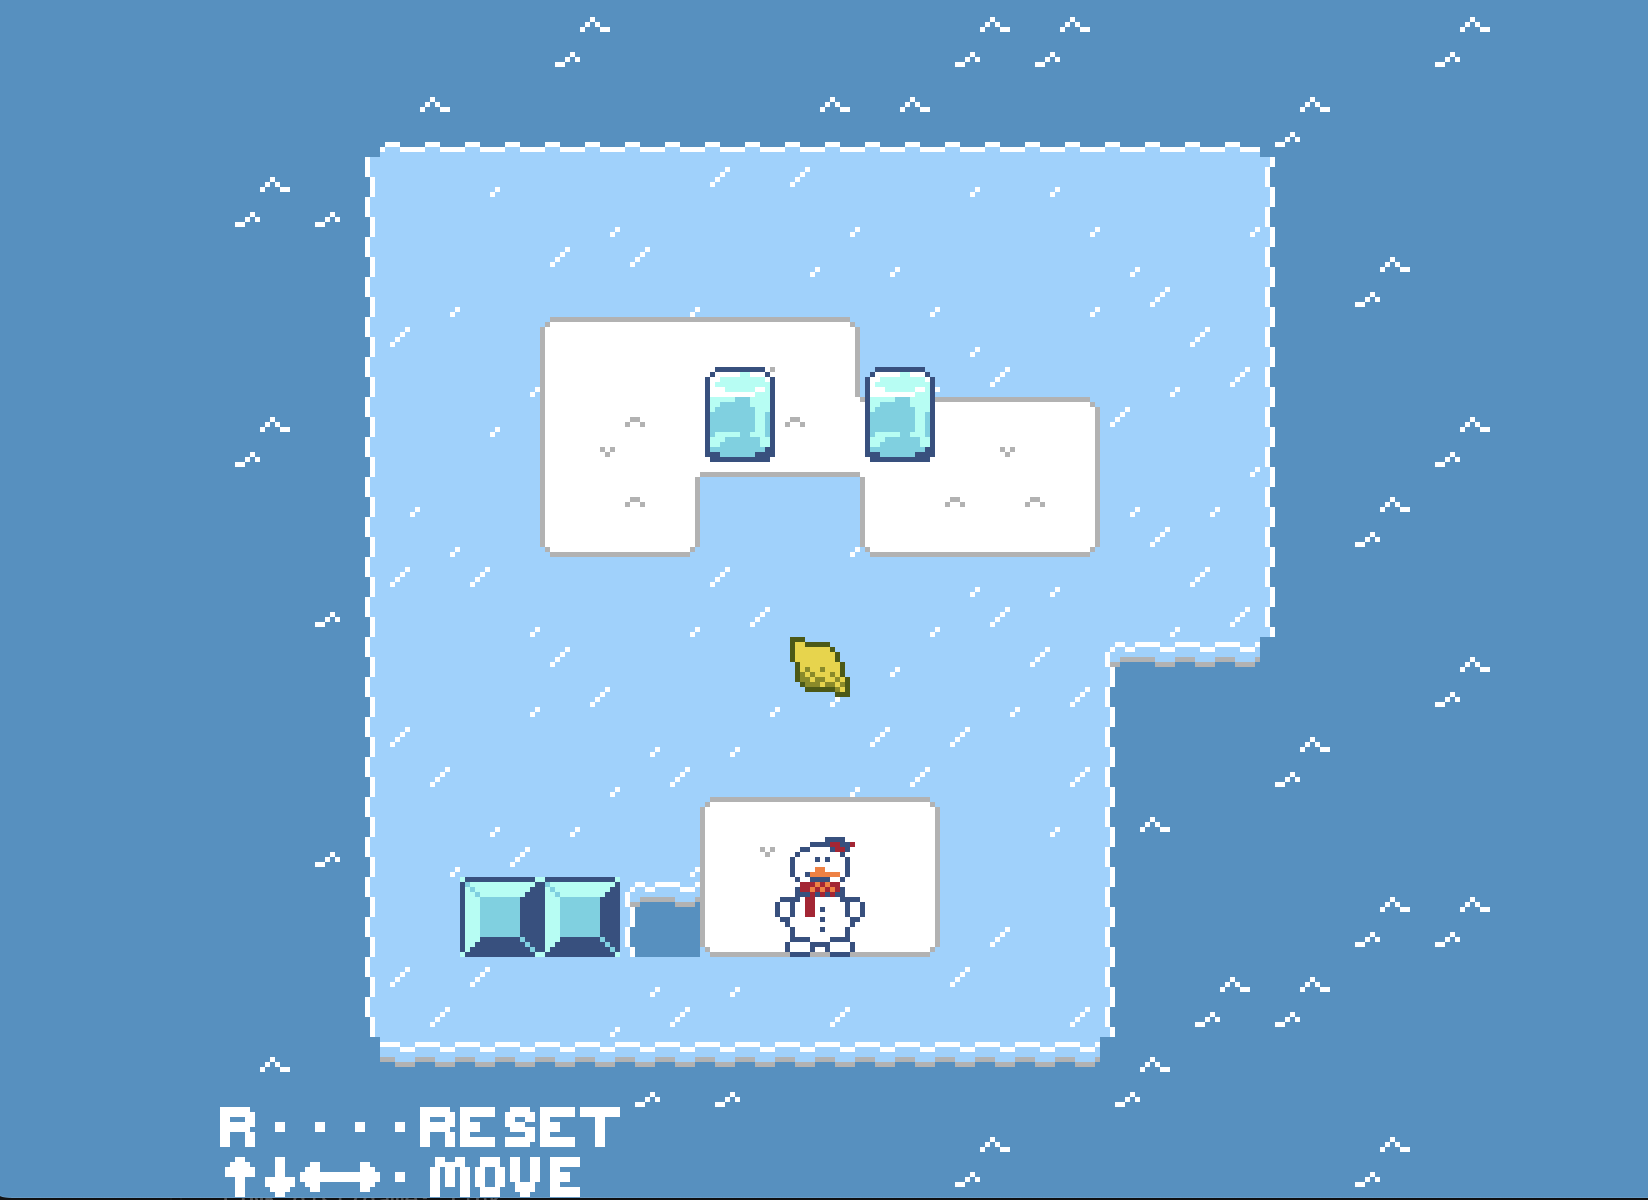
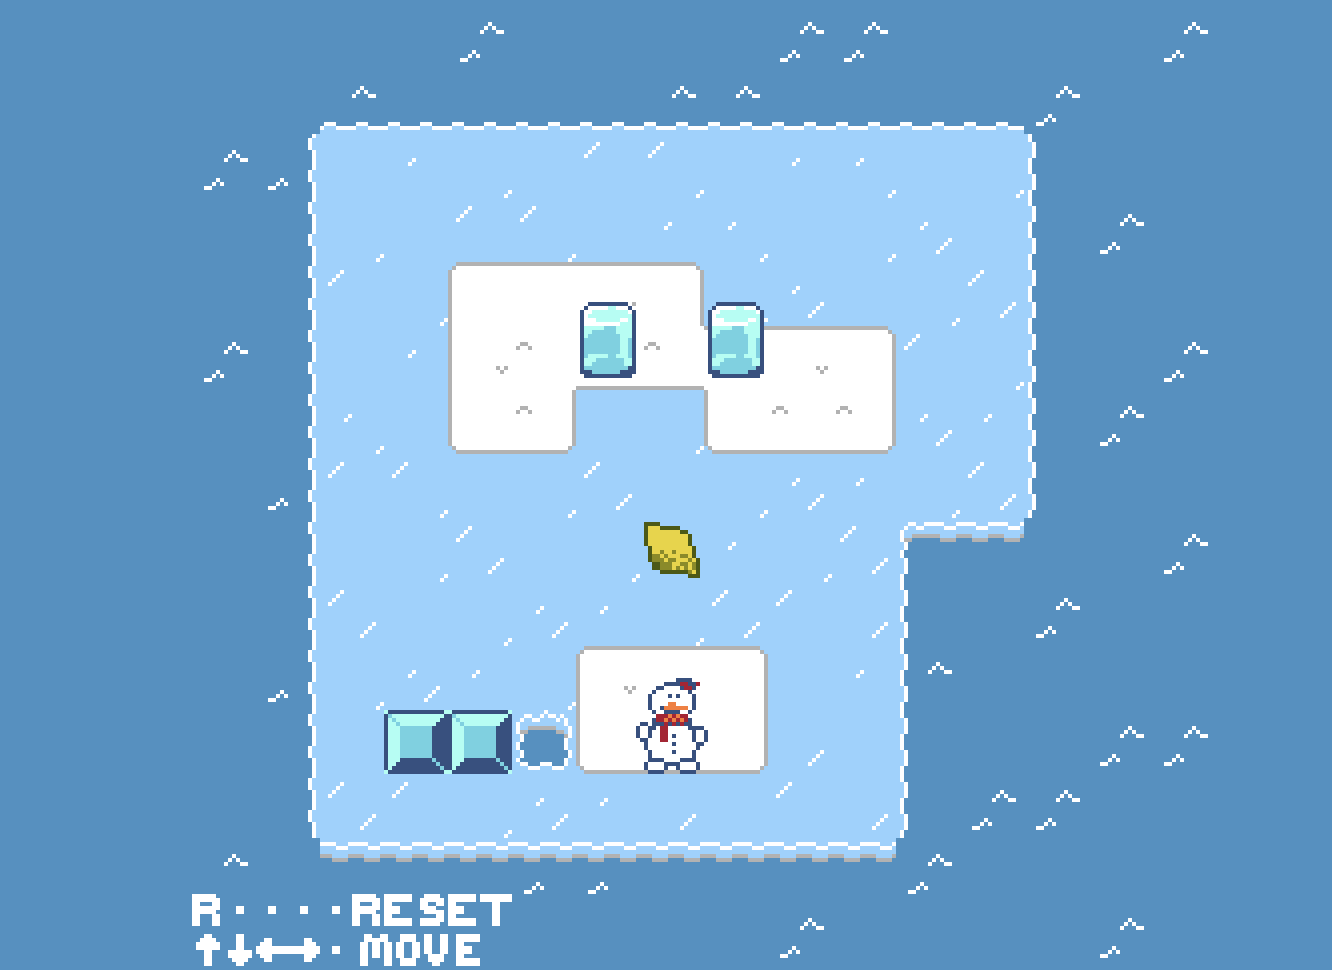
Optimized autoconnecting and tweaked tileset

diff --git a/PlayMode.cpp b/PlayMode.cpp
@@ -83,6 +83,7 @@ void Entity::repose(float time, int facing = 0) {
 		sprites[4].y = sprites[5].y = display_pos.y;
 		if (submerged) {
 			sprites[4].index = sprites[5].index = 255;
+			for (PPU466::Sprite& sprite: sprites) sprite.y -= 1 + static_cast<int>(time) % 2;
 		}
 	} else if (entity_type == 1) {
 		// Lemon
@@ -107,6 +108,7 @@ void Entity::repose(float time, int facing = 0) {
 		}
 		if (submerged) {
 			sprites[2].index = sprites[3].index = 255;
+			for (PPU466::Sprite& sprite: sprites) sprite.y -= 1;
 		}
 
 	} else if (entity_type == 2) {
@@ -179,6 +181,7 @@ void Entity::repose(float time, int facing = 0) {
 
 		if (submerged) {
 			sprites[4].index = sprites[5].index = sprites[9].index = sprites[10].index = 255;
+			for (PPU466::Sprite& sprite: sprites) sprite.y -= 1;
 		}
 	}
 }
@@ -280,6 +283,7 @@ PlayMode::~PlayMode() {
 // By reloading all entities.
 void PlayMode::reset_level(int level_index) {
 	winning_timer = 0.0f;
+	game_lost = false;
 	map = WorldMap(level_index);
 	redraw_background();
 	entities.clear();
@@ -378,35 +382,36 @@ void PlayMode::redraw_background() {
 				// override: autoconnect
 				// below are hardcoded corner handling. c.f. spritesheet
 				bool _top = is_top(gx, gy), _bottom = is_bottom(gx, gy), _left = is_left(gx, gy), _right = is_right(gx, gy);
-				if (_top && _left) {
-					ppu.background[to_ppu_tile(gx, gy, 0)] = 18 | Assets::BCOL_LAND;
-					ppu.background[to_ppu_tile(gx, gy, 2)] = 2 | Assets::BCOL_LAND;
-					ppu.background[to_ppu_tile(gx, gy, 3)] = 3 | Assets::BCOL_LAND;
-				} else if (_top && _right) {
-					ppu.background[to_ppu_tile(gx, gy, 1)] = 20 | Assets::BCOL_LAND;
-					ppu.background[to_ppu_tile(gx, gy, 2)] = 3 | Assets::BCOL_LAND;
-					ppu.background[to_ppu_tile(gx, gy, 3)] = 4 | Assets::BCOL_LAND;
-				} else if (_top) {
-					ppu.background[to_ppu_tile(gx, gy, 2)] = 3 | Assets::BCOL_LAND;
-					ppu.background[to_ppu_tile(gx, gy, 3)] = 3 | Assets::BCOL_LAND;
-				} else if (_bottom && _left) {
-					ppu.background[to_ppu_tile(gx, gy, 0)] = 34 | Assets::BCOL_LAND;
-					ppu.background[to_ppu_tile(gx, gy, 1)] = 35 | Assets::BCOL_LAND;
-					ppu.background[to_ppu_tile(gx, gy, 2)] = 18 | Assets::BCOL_LAND;
-				} else if (_bottom && _right) {
-					ppu.background[to_ppu_tile(gx, gy, 0)] = 35 | Assets::BCOL_LAND;
-					ppu.background[to_ppu_tile(gx, gy, 1)] = 36 | Assets::BCOL_LAND;
-					ppu.background[to_ppu_tile(gx, gy, 3)] = 20 | Assets::BCOL_LAND;
-				} else if (_bottom) {
-					ppu.background[to_ppu_tile(gx, gy, 0)] = 35 | Assets::BCOL_LAND;
-					ppu.background[to_ppu_tile(gx, gy, 1)] = 35 | Assets::BCOL_LAND;
-				} else if (_left) {
+
+				if (_left) {
 					ppu.background[to_ppu_tile(gx, gy, 0)] = 18 | Assets::BCOL_LAND;
 					ppu.background[to_ppu_tile(gx, gy, 2)] = 18 | Assets::BCOL_LAND;
-				} else if (_right) {
+				}
+				if (_right) {
 					ppu.background[to_ppu_tile(gx, gy, 1)] = 20 | Assets::BCOL_LAND;
 					ppu.background[to_ppu_tile(gx, gy, 3)] = 20 | Assets::BCOL_LAND;
 				}
+				if (_top) {
+					ppu.background[to_ppu_tile(gx, gy, 2)] = 3 | Assets::BCOL_LAND;
+					ppu.background[to_ppu_tile(gx, gy, 3)] = 3 | Assets::BCOL_LAND;
+				}
+				if (_bottom) {
+					ppu.background[to_ppu_tile(gx, gy, 0)] = 35 | Assets::BCOL_LAND;
+					ppu.background[to_ppu_tile(gx, gy, 1)] = 35 | Assets::BCOL_LAND;
+				} 
+				if (_top && _left) {
+					ppu.background[to_ppu_tile(gx, gy, 2)] = 2 | Assets::BCOL_LAND;
+				}
+				if (_top && _right) {
+					ppu.background[to_ppu_tile(gx, gy, 3)] = 4 | Assets::BCOL_LAND;
+				}
+				if (_bottom && _left) {
+					ppu.background[to_ppu_tile(gx, gy, 0)] = 34 | Assets::BCOL_LAND;
+				}
+				if (_bottom && _right) {
+					ppu.background[to_ppu_tile(gx, gy, 1)] = 36 | Assets::BCOL_LAND;
+				} 
+
 			} else if (map.map[gy * GRID_W + gx] == 3) {
 				ppu.background[to_ppu_tile(gx, gy, 0)] = 80 | Assets::BCOL_WALL;
 				ppu.background[to_ppu_tile(gx, gy, 1)] = 81 | Assets::BCOL_WALL;
@@ -420,34 +425,33 @@ void PlayMode::redraw_background() {
 
 				// autoconnecting
 				bool _top = is_top(gx, gy, 0), _bottom = is_bottom(gx, gy, 0), _left = is_left(gx, gy, 0), _right = is_right(gx, gy, 0);
+				if (_top) {
+					ppu.background[to_ppu_tile(gx, gy, 2)] = 6 | Assets::BCOL_LAND;
+					ppu.background[to_ppu_tile(gx, gy, 3)] = 6 | Assets::BCOL_LAND;
+				}
+				if (_bottom) {
+					ppu.background[to_ppu_tile(gx, gy, 0)] = 38 | Assets::BCOL_LAND;
+					ppu.background[to_ppu_tile(gx, gy, 1)] = 38 | Assets::BCOL_LAND;
+				}
+				if (_left) {
+					ppu.background[to_ppu_tile(gx, gy, 0)] = 21 | Assets::BCOL_LAND;
+					ppu.background[to_ppu_tile(gx, gy, 2)] = 21 | Assets::BCOL_LAND;
+				}
+				if (_right) {
+					ppu.background[to_ppu_tile(gx, gy, 1)] = 23 | Assets::BCOL_LAND;
+					ppu.background[to_ppu_tile(gx, gy, 3)] = 23 | Assets::BCOL_LAND;
+				}
 				if (_top && _left) {
-					ppu.background[to_ppu_tile(gx, gy, 0)] = 21 | Assets::BCOL_LAND;
 					ppu.background[to_ppu_tile(gx, gy, 2)] = 5 | Assets::BCOL_LAND;
-					ppu.background[to_ppu_tile(gx, gy, 3)] = 6 | Assets::BCOL_LAND;
-				} else if (_top && _right) {
-					ppu.background[to_ppu_tile(gx, gy, 1)] = 23 | Assets::BCOL_LAND;
-					ppu.background[to_ppu_tile(gx, gy, 2)] = 6 | Assets::BCOL_LAND;
+				}
+				if (_top && _right) {
 					ppu.background[to_ppu_tile(gx, gy, 3)] = 7 | Assets::BCOL_LAND;
-				} else if (_top) {
-					ppu.background[to_ppu_tile(gx, gy, 2)] = 6 | Assets::BCOL_LAND;
-					ppu.background[to_ppu_tile(gx, gy, 3)] = 6 | Assets::BCOL_LAND;
-				} else if (_bottom && _left) {
+				}
+				if (_bottom && _left) {
 					ppu.background[to_ppu_tile(gx, gy, 0)] = 37 | Assets::BCOL_LAND;
-					ppu.background[to_ppu_tile(gx, gy, 1)] = 38 | Assets::BCOL_LAND;
-					ppu.background[to_ppu_tile(gx, gy, 2)] = 21 | Assets::BCOL_LAND;
-				} else if (_bottom && _right) {
-					ppu.background[to_ppu_tile(gx, gy, 0)] = 38 | Assets::BCOL_LAND;
+				}
+				if (_bottom && _right) {
 					ppu.background[to_ppu_tile(gx, gy, 1)] = 39 | Assets::BCOL_LAND;
-					ppu.background[to_ppu_tile(gx, gy, 3)] = 23 | Assets::BCOL_LAND;
-				} else if (_bottom) {
-					ppu.background[to_ppu_tile(gx, gy, 0)] = 38 | Assets::BCOL_LAND;
-					ppu.background[to_ppu_tile(gx, gy, 1)] = 38 | Assets::BCOL_LAND;
-				} else if (_left) {
-					ppu.background[to_ppu_tile(gx, gy, 0)] = 21 | Assets::BCOL_LAND;
-					ppu.background[to_ppu_tile(gx, gy, 2)] = 21 | Assets::BCOL_LAND;
-				} else if (_right) {
-					ppu.background[to_ppu_tile(gx, gy, 1)] = 23 | Assets::BCOL_LAND;
-					ppu.background[to_ppu_tile(gx, gy, 3)] = 23 | Assets::BCOL_LAND;
 				}
 			}
 		}
@@ -538,6 +542,7 @@ void PlayMode::update(float elapsed) {
 					entity.submerged = true;
 					if (entity.entity_type != 0) {
 						level_ended = true;
+						game_lost = true;
 						input_allowed = false;
 					}
 				}
@@ -740,6 +745,7 @@ void PlayMode::draw(glm::uvec2 const &drawable_size) {
 			for (int y = 0; y < 3; y++) {
 				for (int x = 0; x < 10; x++) {
 					ppu.background[y * PPU466::BackgroundWidth + x] = 16 * (13 - y) + x;
+					if (game_lost && static_cast<int>(anim_timer * 2) % 3 > 0) ppu.background[y * PPU466::BackgroundWidth + x] |= Assets::BCOL_FROSTY;
 				}
 			}
 		}

diff --git a/Assets.hpp b/Assets.hpp
@@ -25,9 +25,9 @@ namespace Assets {
 		{ 254,254,254,254,254,254,254,254 },
 		{ 255,255,255,255,255,255,255,255 },
 		{ 127,127,127,127,127,127,127,127 },
-		{ 7,7,3,3,3,3,7,7 },
+		{ 3,3,7,7,7,7,3,3 },
 		{ 0,0,24,160,64,0,0,0 },
-		{ 192,192,192,192,224,224,224,224 },
+		{ 192,192,192,192,224,224,224,192 },
 		{ 0,49,10,4,0,0,0,0 },
 		{ 0,0,0,0,0,0,0,0 },
 		{ 0,0,0,0,0,0,0,0 },
@@ -72,8 +72,8 @@ namespace Assets {
 		{ 240,240,240,240,255,255,255,255 },
 		{ 250,2,2,2,2,6,14,126 },
 		{ 92,88,88,88,88,120,124,124 },
-		{ 168,216,248,252,252,252,252,28 },
-		{ 27,30,31,15,15,7,3,0 },
+		{ 252,254,254,254,254,254,30,0 },
+		{ 63,31,31,31,15,3,0,0 },
 		{ 7,206,252,248,240,240,48,0 },
 		{ 22,6,28,102,62,7,0,0 },
 		{ 254,252,252,252,184,8,0,248 },
@@ -88,8 +88,8 @@ namespace Assets {
 		{ 255,191,223,239,240,240,240,240 },
 		{ 0,0,0,252,14,2,14,30 },
 		{ 0,0,0,63,120,96,112,112 },
-		{ 0,0,0,0,0,224,16,72 },
-		{ 0,0,0,0,56,55,41,54 },
+		{ 0,0,224,24,24,68,164,220 },
+		{ 0,112,111,85,83,110,51,62 },
 		{ 0,0,64,64,48,8,248,191 },
 		{ 0,0,24,1,11,50,60,53 },
 		{ 0,0,224,252,252,252,254,254 },
@@ -285,9 +285,9 @@ namespace Assets {
 		{ 255,255,255,255,255,255,255,255 },
 		{ 255,255,255,255,255,255,255,255 },
 		{ 255,255,255,255,255,255,255,255 },
-		{ 4,4,2,2,2,2,4,4 },
+		{ 2,2,4,4,4,4,2,2 },
 		{ 0,0,24,160,64,0,0,0 },
-		{ 64,64,64,64,32,32,32,32 },
+		{ 64,64,64,64,32,32,32,64 },
 		{ 0,49,10,4,0,0,0,0 },
 		{ 0,0,0,0,0,0,0,0 },
 		{ 0,0,0,0,0,0,0,0 },
@@ -332,8 +332,8 @@ namespace Assets {
 		{ 15,15,15,15,31,63,127,128 },
 		{ 252,252,252,252,252,252,252,252 },
 		{ 63,63,63,63,63,63,63,63 },
-		{ 240,240,240,248,248,248,24,0 },
-		{ 15,15,15,7,7,3,0,0 },
+		{ 248,252,252,252,252,28,0,0 },
+		{ 31,15,15,15,3,0,0,0 },
 		{ 255,190,252,248,240,240,48,0 },
 		{ 31,61,31,127,63,7,0,0 },
 		{ 252,248,248,240,64,240,240,240 },
@@ -348,8 +348,8 @@ namespace Assets {
 		{ 128,64,32,16,15,15,15,15 },
 		{ 0,0,0,0,240,252,252,252 },
 		{ 0,0,0,0,7,31,63,63 },
-		{ 0,0,0,0,0,0,224,240 },
-		{ 0,0,0,0,0,24,31,31 },
+		{ 0,0,0,224,224,248,248,248 },
+		{ 0,0,48,63,63,63,31,31 },
 		{ 0,0,192,192,240,248,56,255 },
 		{ 0,0,24,13,15,43,19,46 },
 		{ 0,0,0,224,248,248,252,252 },

diff --git a/PlayMode.hpp b/PlayMode.hpp
@@ -75,6 +75,7 @@ struct PlayMode : Mode {
 
 	//entities and maps
 	int current_level = 1;
+	bool game_lost = false;
 	WorldMap map;
 	std::vector<Entity> entities = { };
 	std::vector<int> entity_moving = { };
